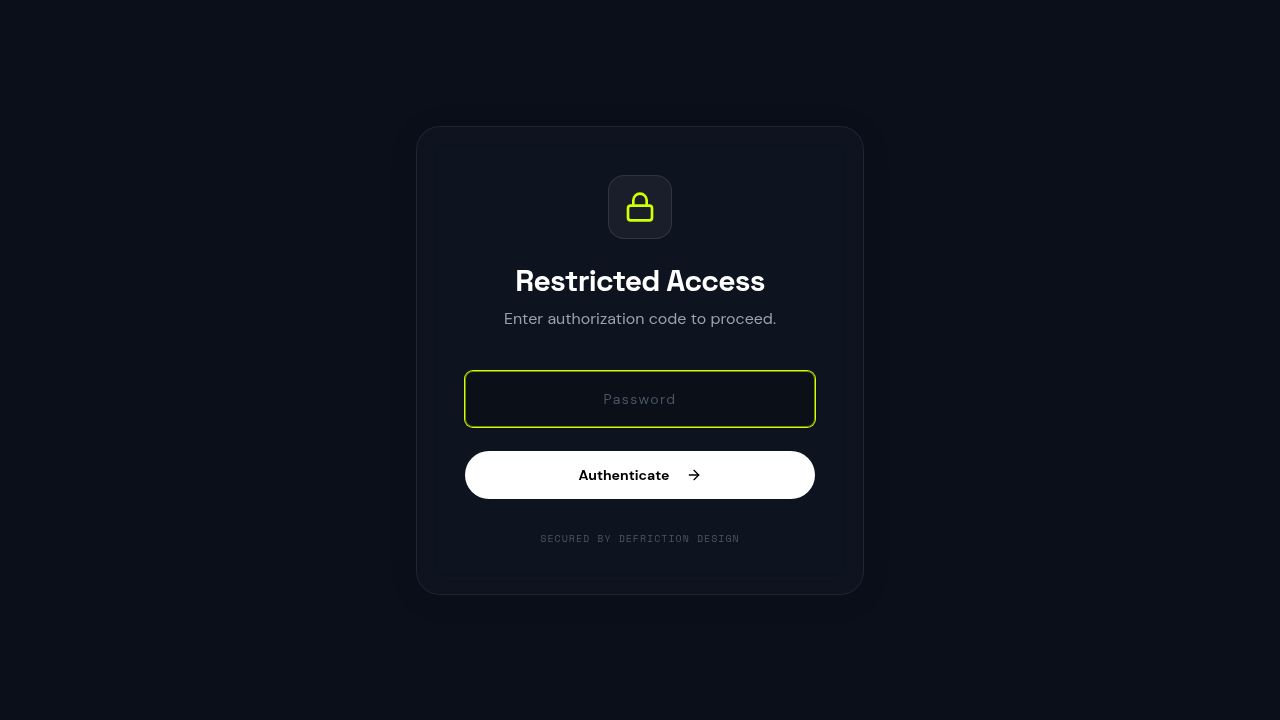
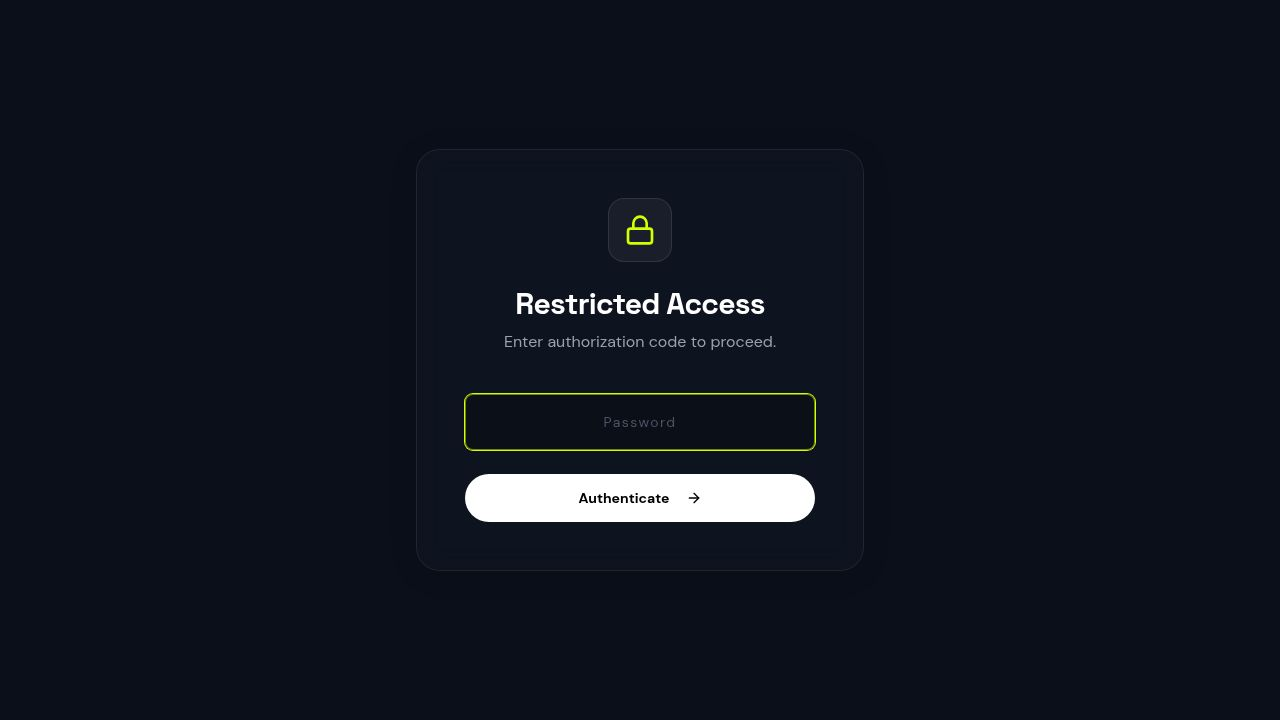
Remove secured by Defriction Design paragraph from password protection screen
Remove the "Secured by Defriction Design" paragraph from the password protection screen.

Replit-Commit-Author: Agent
Replit-Commit-Session-Id: c13d2183-2355-4302-aa31-ace07d8ec3e6
Replit-Commit-Checkpoint-Type: full_checkpoint
Replit-Commit-Event-Id: 9a1b3210-6d9e-4fd1-b91d-01311c0fdc77
Replit-Commit-Screenshot-Url: https://storage.googleapis.com/screenshot-production-us-central1/178e76eb-92b4-40a8-aafc-a2a58cde42a9/c13d2183-2355-4302-aa31-ace07d8ec3e6/igBhnTl
Replit-Helium-Checkpoint-Created: true

Changed region(s): [[0.3438, 0.275, 0.6562, 0.7333], [0.625, 0.5194, 0.6562, 0.55], [0.3438, 0.5194, 0.375, 0.55]]

diff --git a/client/src/components/PasswordProtection.tsx b/client/src/components/PasswordProtection.tsx
@@ -85,12 +85,6 @@ export function PasswordProtection({ children }: { children: React.ReactNode }) 
               Authenticate <ArrowRight className="ml-2 w-4 h-4" />
             </Button>
           </form>
-          
-          <div className="mt-8 text-center">
-            <p className="text-[10px] font-mono text-gray-600 uppercase tracking-widest">
-              Secured by Defriction Design
-            </p>
-          </div>
         </div>
       </motion.div>
     </div>
